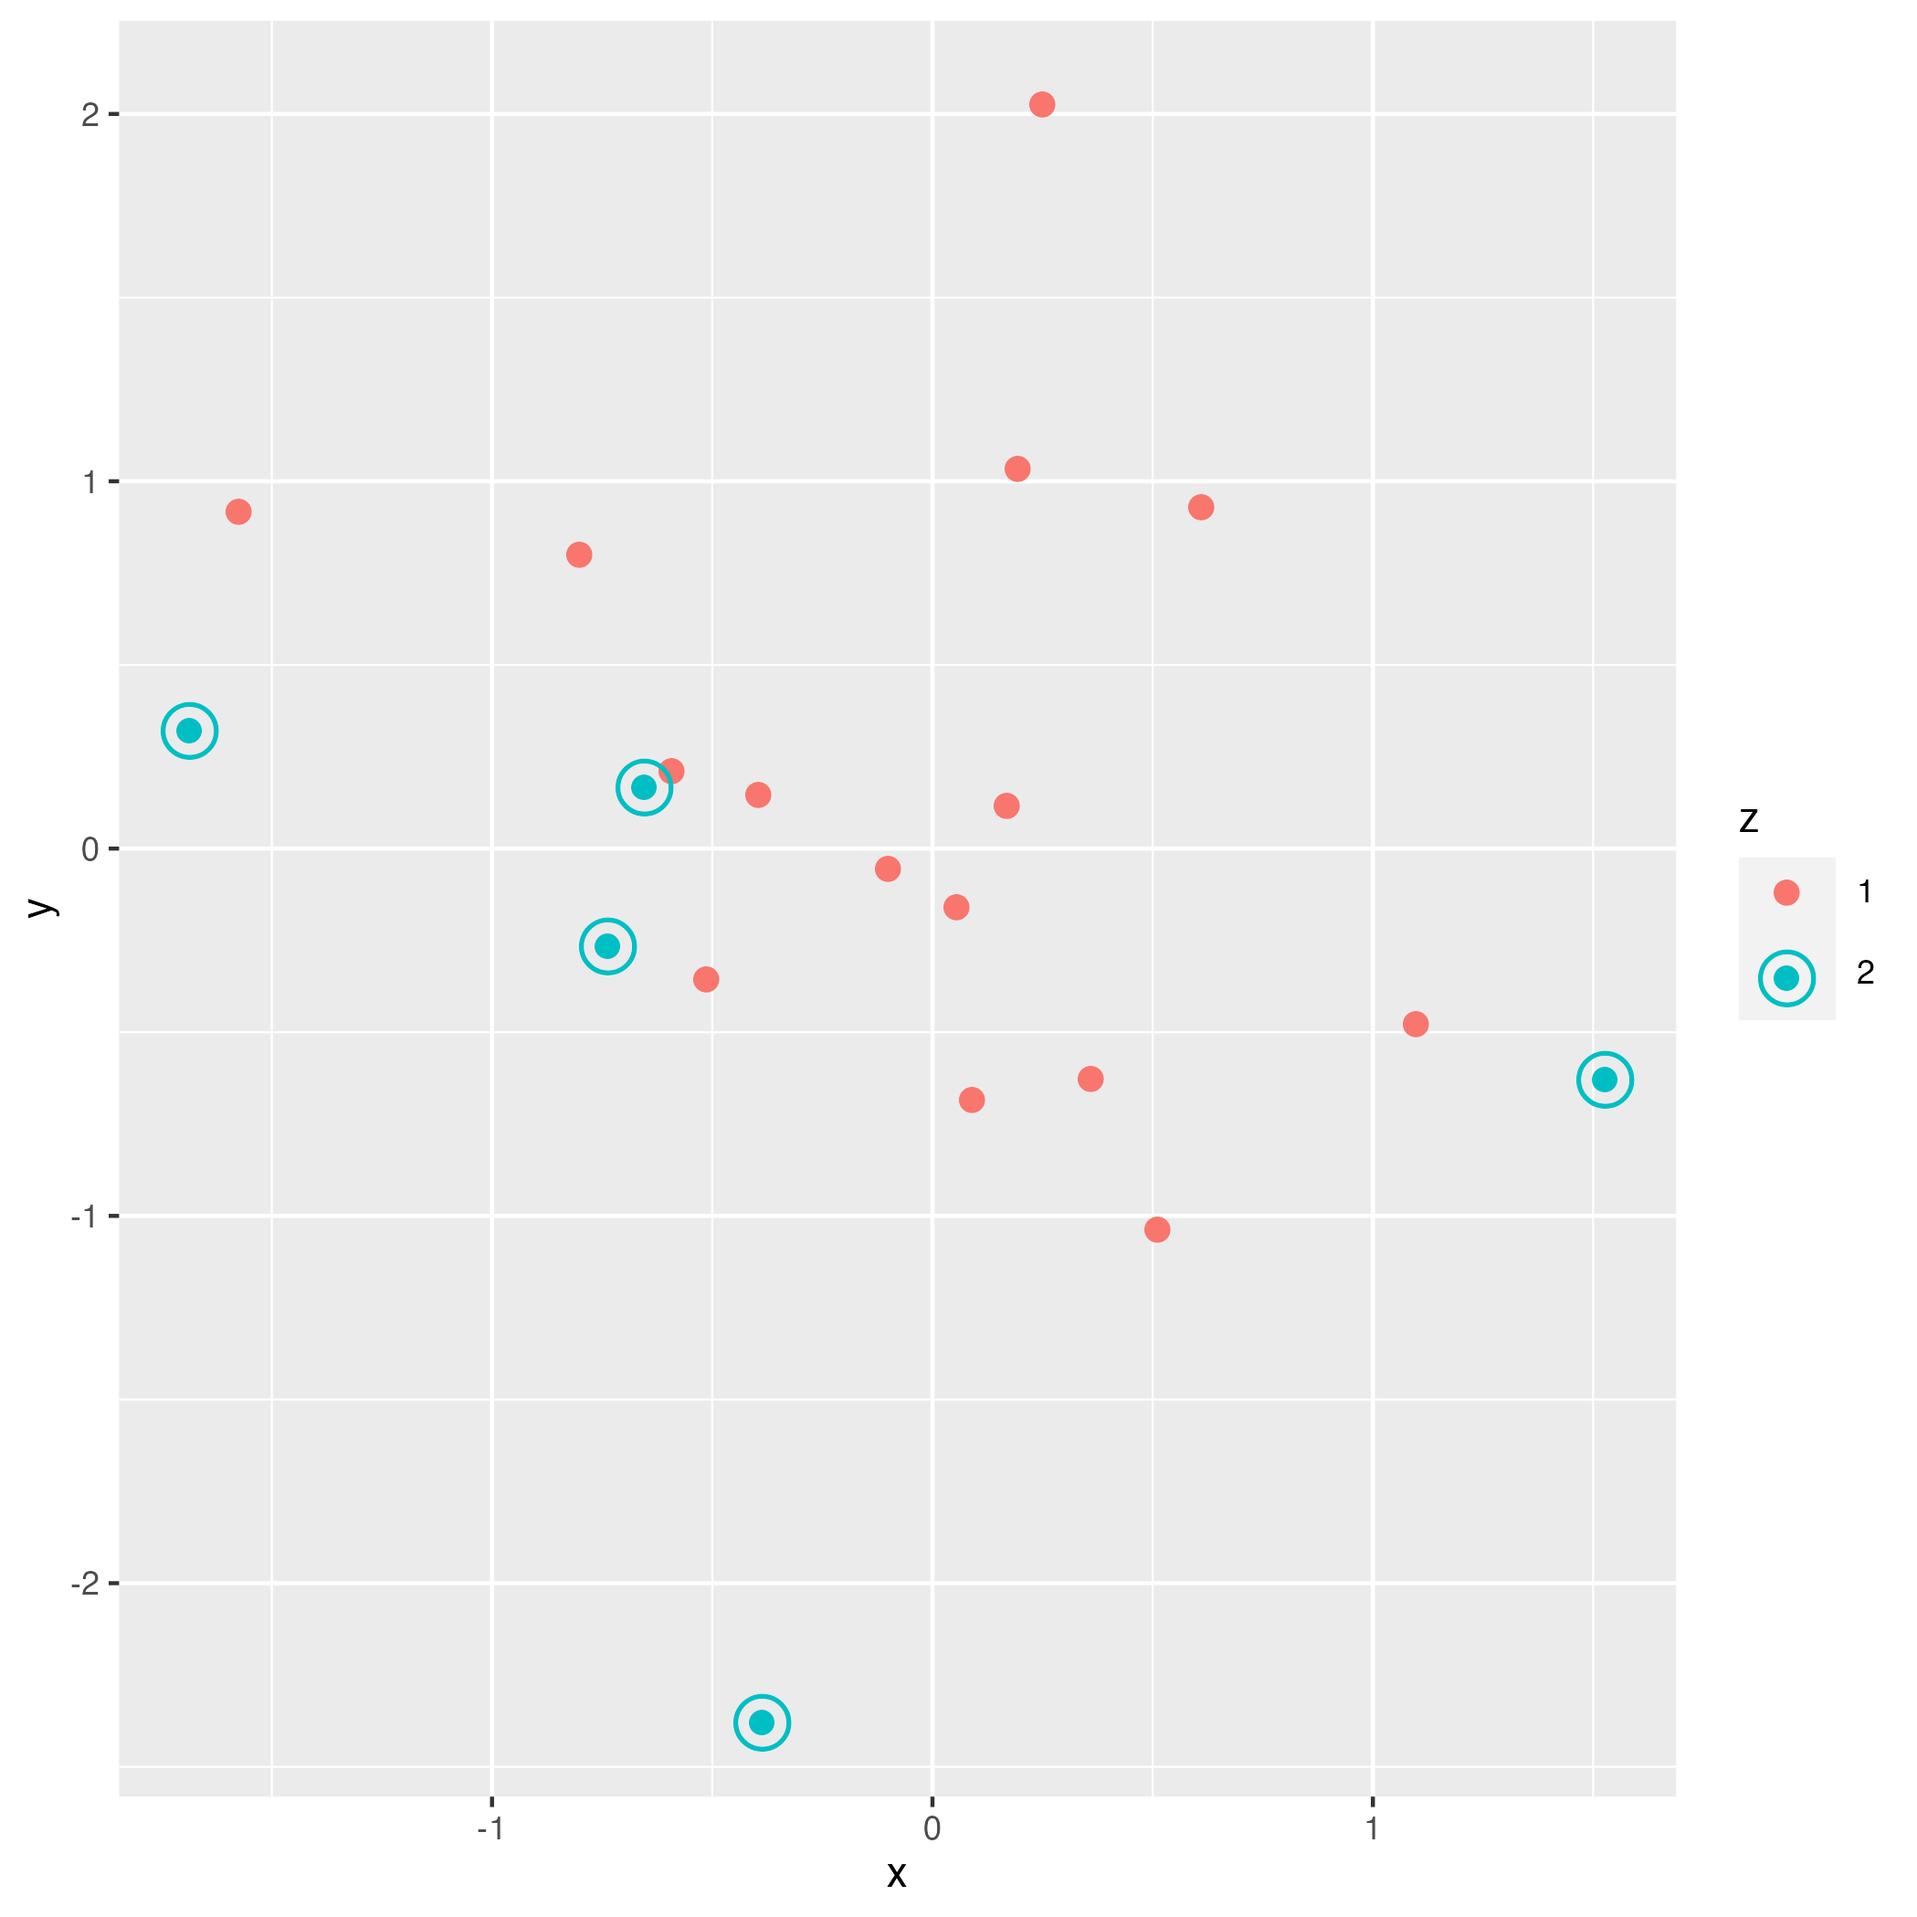
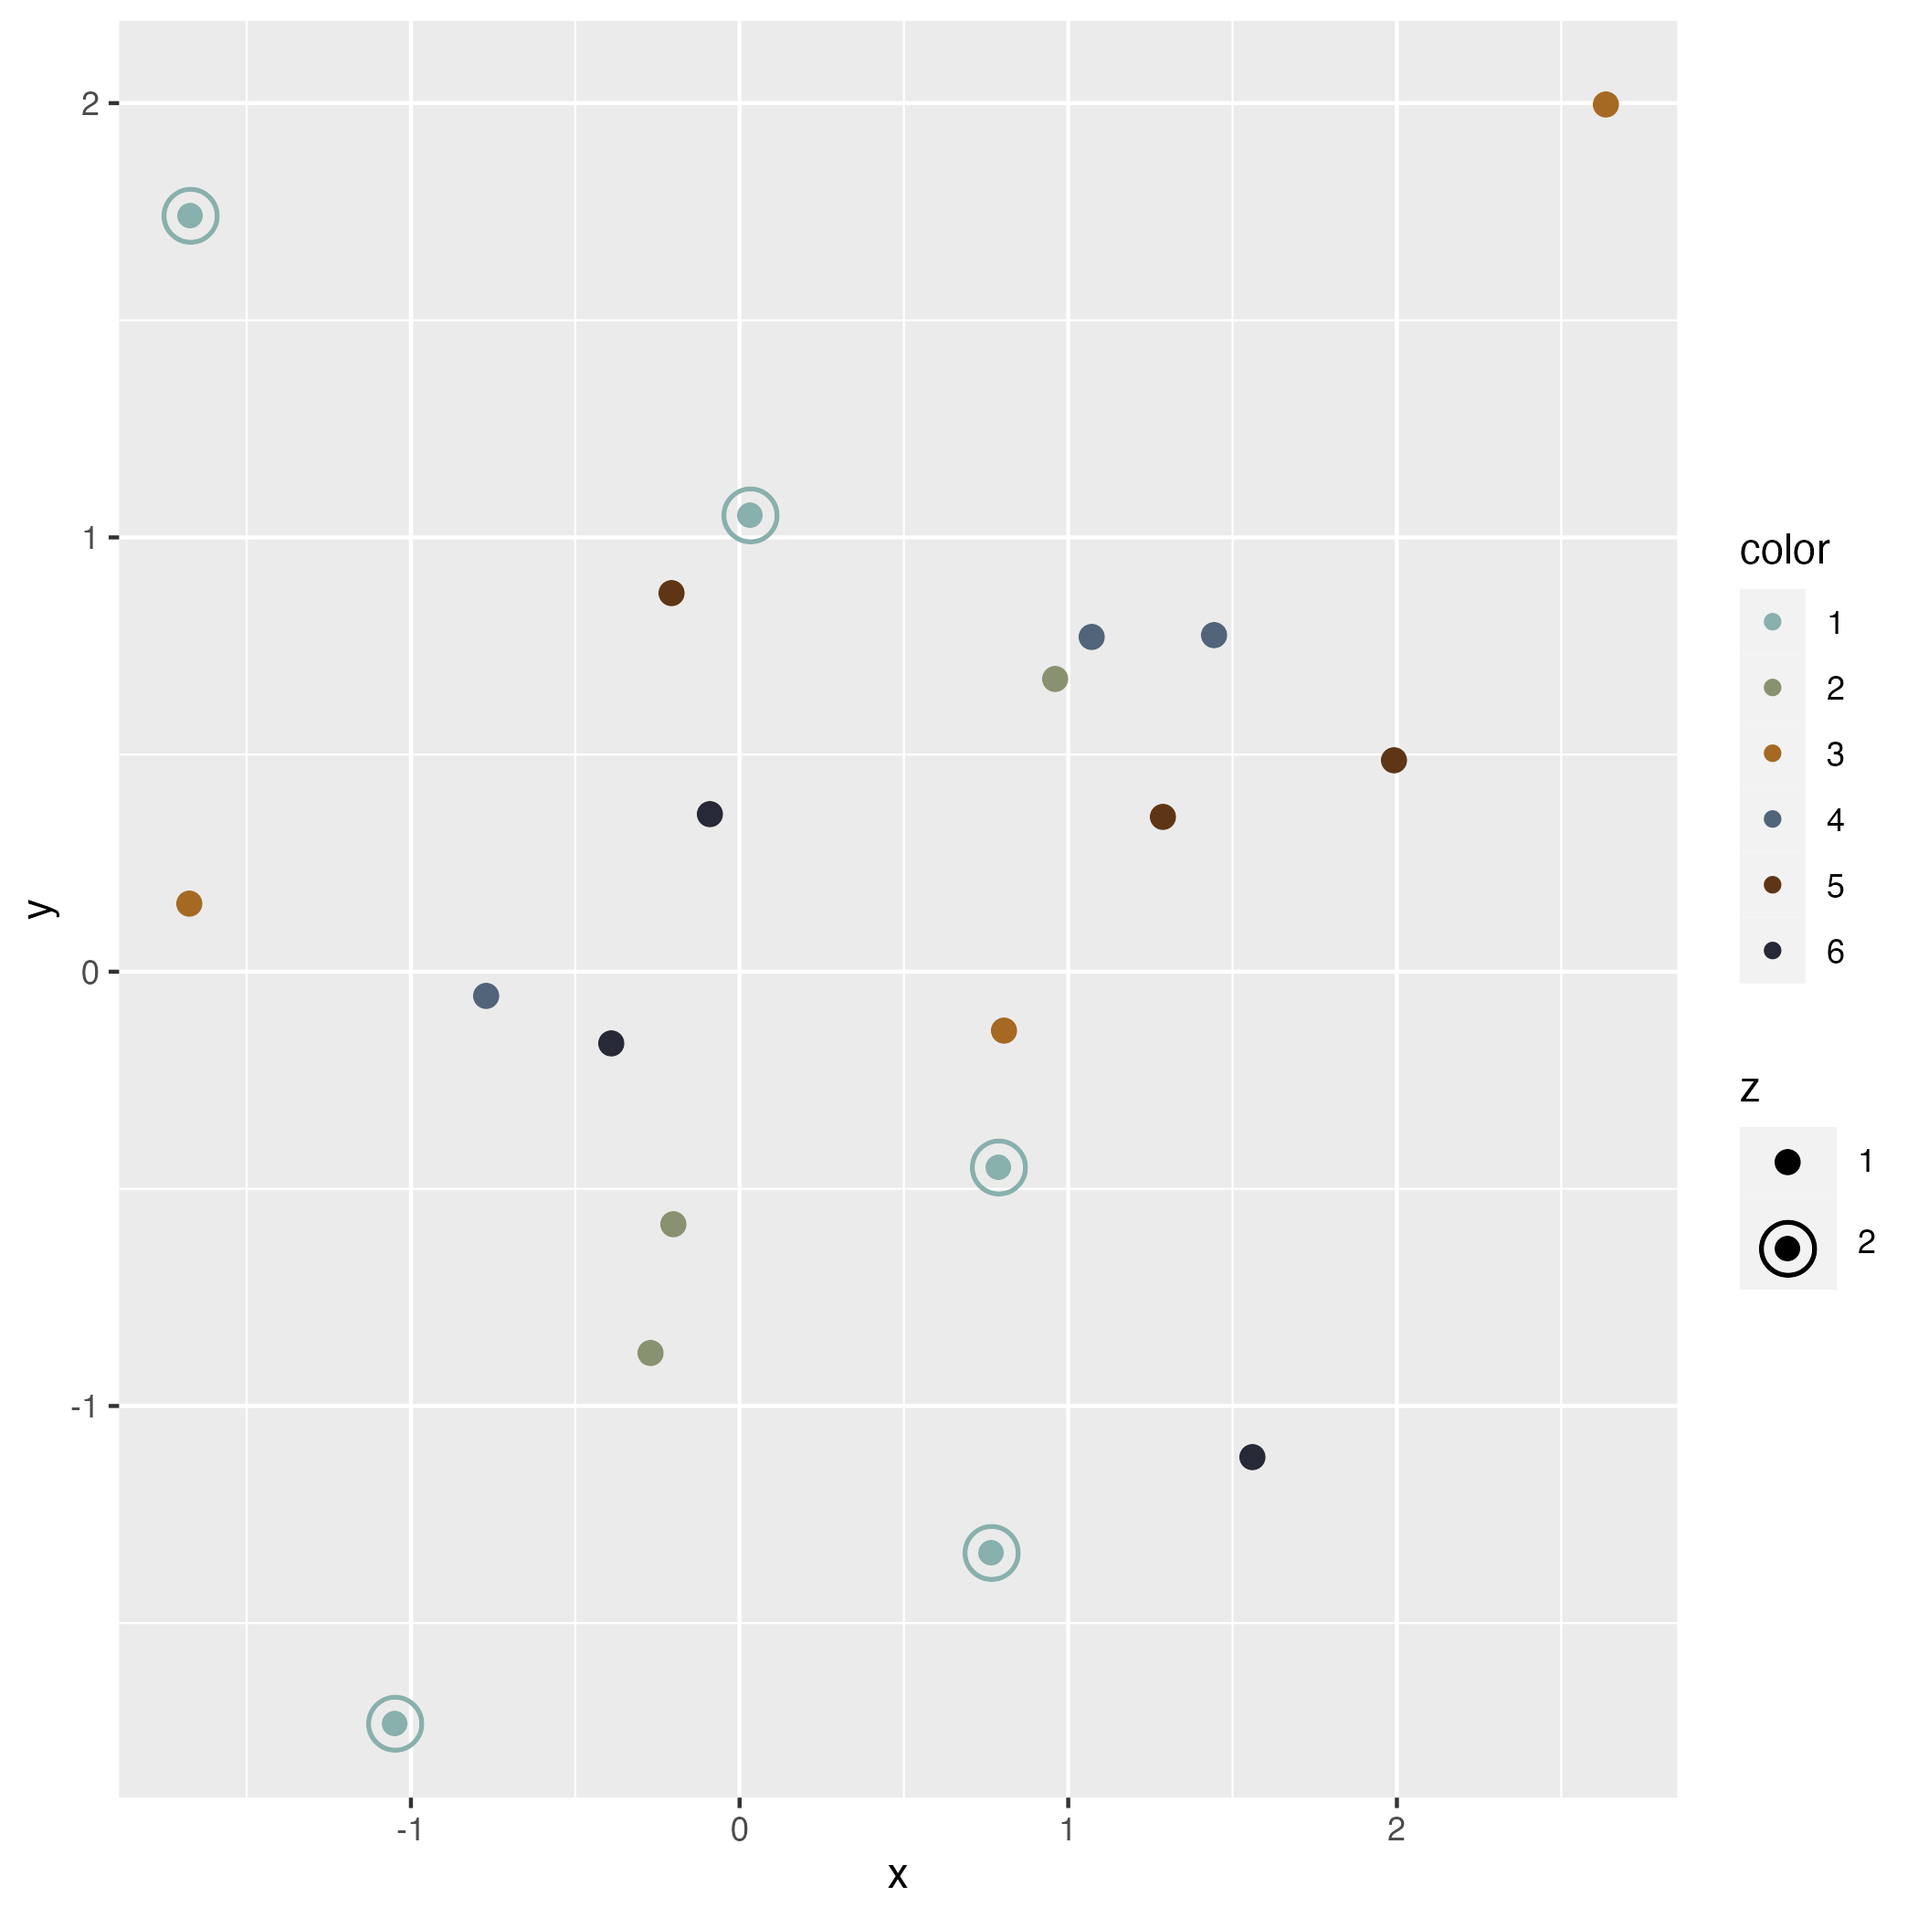
added bluegill palette

diff --git a/README.md b/README.md
@@ -12,16 +12,17 @@ remotes::install_github("quartzsoftwarellc/ggquartz")
 
 ## Usage
 
-`scale_target()` adds an alternating shape scale of a filled circle and a target and a alternating size scale for the size of the circles and targets.
+`scale_target()` adds an alternating shape scale of a filled circle and a target and a alternating size scale for the size of the circles and targets. You can also use the `bluegill_palette` for added style.
 
 ```R
 library(magrittr)
 library(ggplot2)
 library(ggquartz)
 
-data.frame(x = rnorm(20), y = rnorm(20), z= factor(c(rep(1, 15), rep(2, 5)))) %>%
-   ggplot(aes(x = x, y = y, shape = z, size = z, color = z)) +
+data.frame(x = rnorm(20), y = rnorm(20), color = factor(c(rep(2:6, 3), rep(1, 5))), z= factor(c(rep(1, 15), rep(2, 5)))) %>%
+   ggplot(aes(x = x, y = y, shape = z, size = z, color = color)) +
    scale_target() +
+   scale_color_manual(values = bluegill_palette) + 
    geom_point() -> p
 
 ggsave("./example.png")
